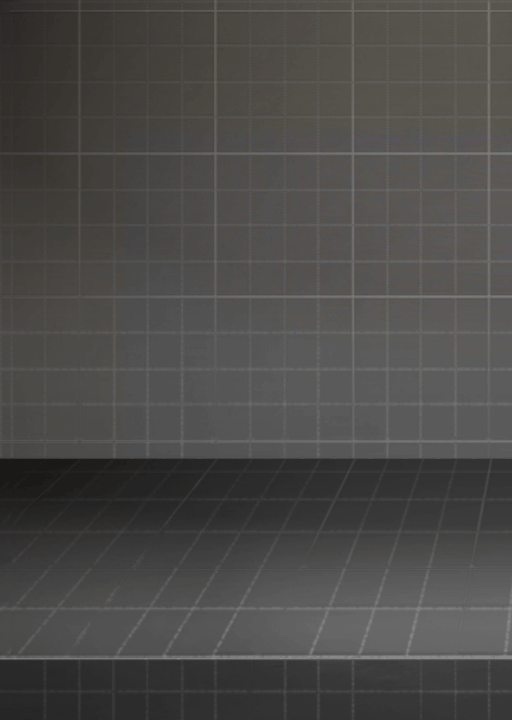
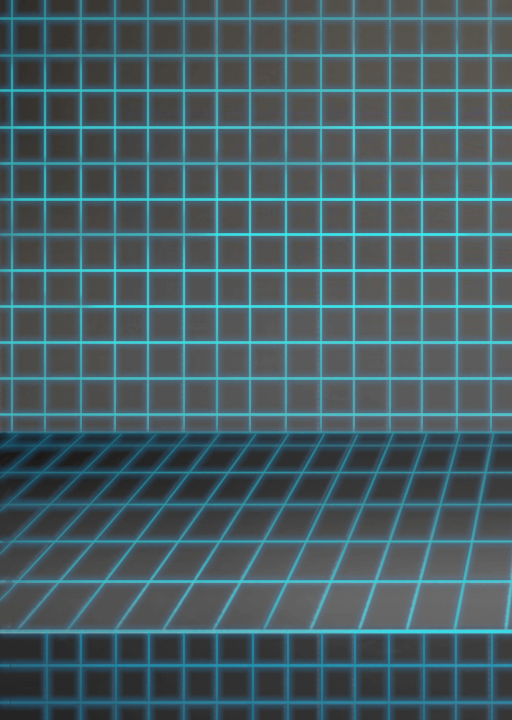
more backgrounds

diff --git a/js/components/Other.js b/js/components/Other.js
@@ -6,6 +6,7 @@ import Button from "./Button.js";
 import { randomBuild } from "../build.js";
 import SelectInput from "./SelectInput.js";
 
+const NUMBER_OF_BACKGROUNDS = 14;
 
 const Other = ({ state, setState, bg, setBg }) => {
   const textArea = useRef(null);
@@ -40,7 +41,8 @@ const Other = ({ state, setState, bg, setBg }) => {
     <div class="col-auto">
       <div class="input-group">
         <span class="input-group-text">Background</span>
-        <${SelectInput} value=${bg} options=${Array(11).fill().map((_, i) => i + 1)} onChange=${e => setBg(e.target.value)} includeNone=${false}/>
+        <${SelectInput} value=${bg} options=${Array(NUMBER_OF_BACKGROUNDS).fill().map((_, i) => i + 1)}
+        onChange=${e => setBg(e.target.value)} includeNone=${false}/>
       </div>
     </div>
   </div>
